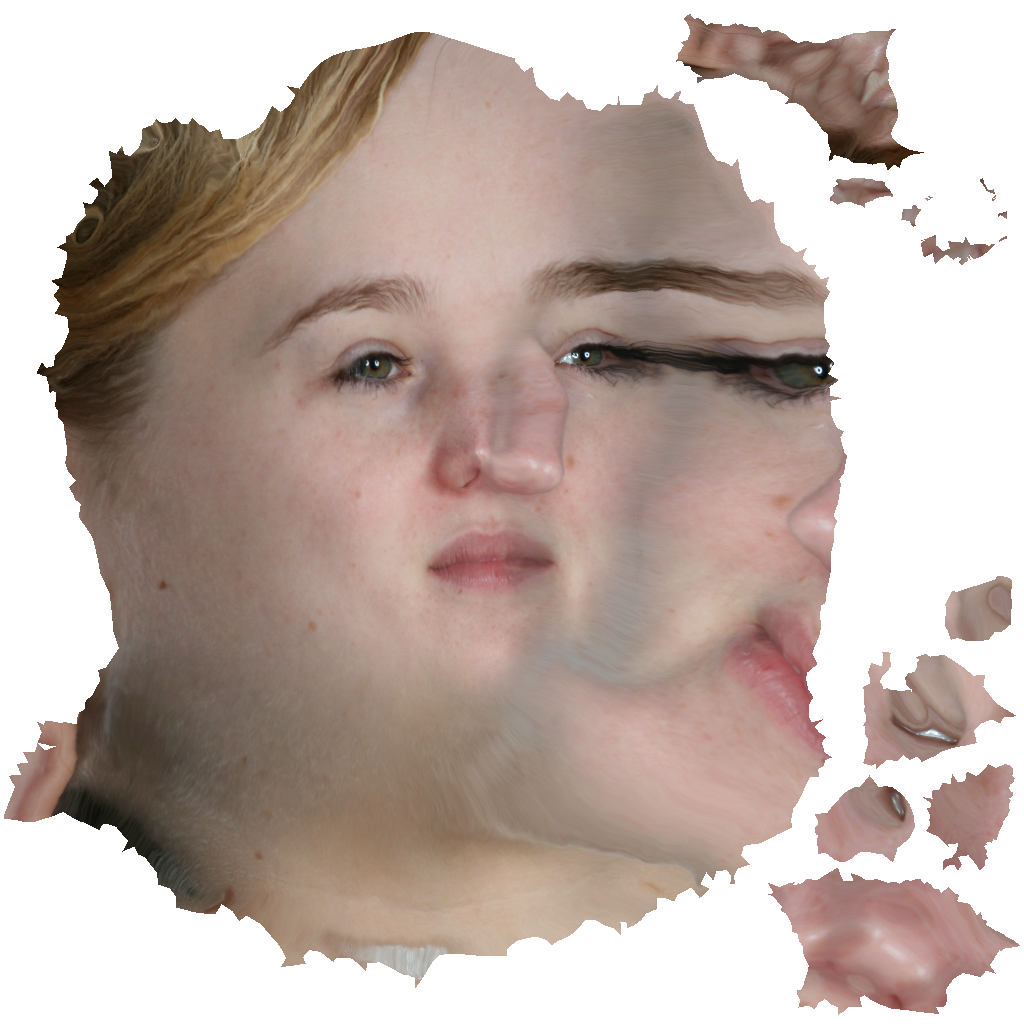
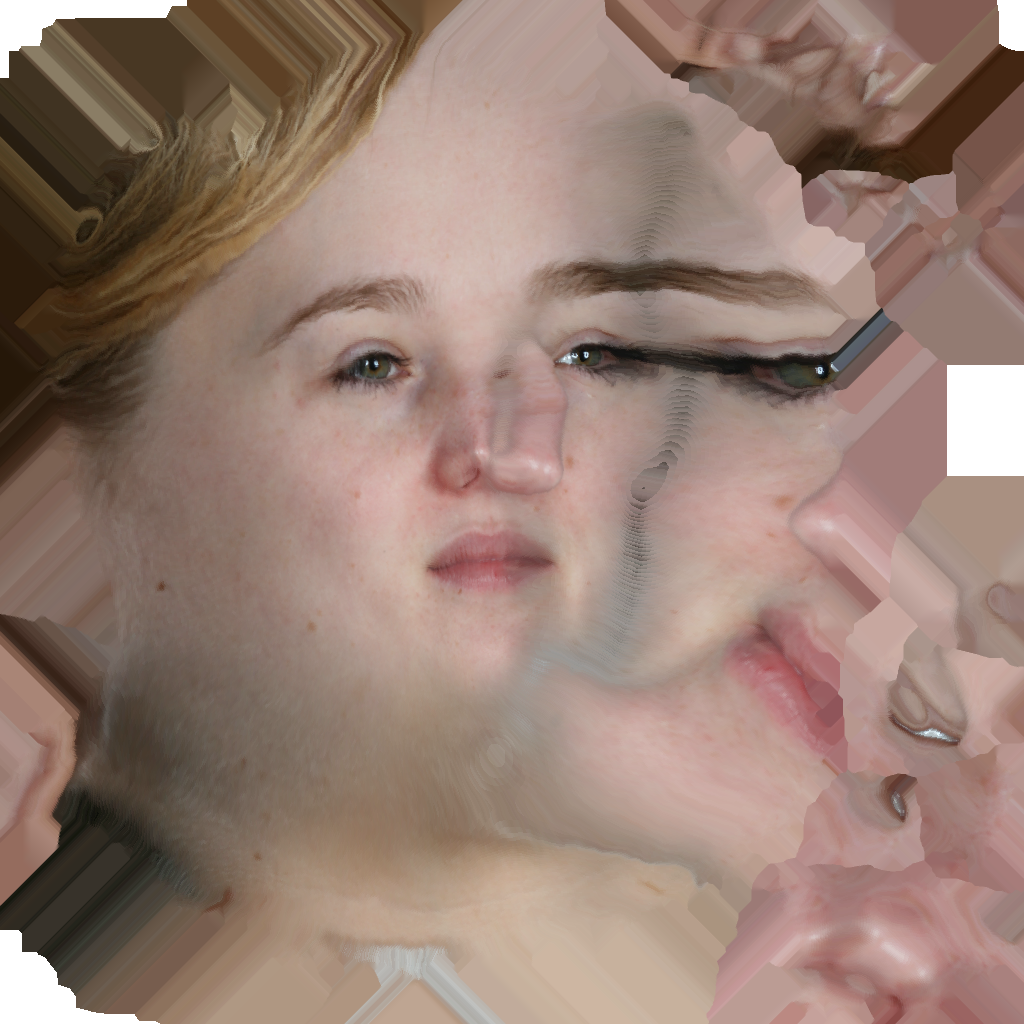
reduced the size of the sample images and added the property resolution to the camera
git-svn-id: svn://svn.code.sf.net/p/meshlab/code/trunk@2340 324bb2ba-784c-0410-a299-e66b5c357fcb

diff --git a/meshlab/src/meshlabplugins/edit_phototexturing/src/Camera.cpp b/meshlab/src/meshlabplugins/edit_phototexturing/src/Camera.cpp
@@ -5,6 +5,9 @@
 const QString Camera::XML_CAMERA = "camera";
 const QString Camera::XML_NAME = "name";
 const QString Camera::XML_IMAGE = "textureImage";
+const QString Camera::XML_RESOLUTION_X = "resolutionX";
+const QString Camera::XML_RESOLUTION_Y = "resolutionY";
+
 
 Camera::Camera(){
 	
@@ -28,6 +31,8 @@ void Camera::saveAsXml(QDomDocument* doc,QDomElement *root){
 	QDomElement xml_cam = doc->createElement(XML_CAMERA);
 	xml_cam.setAttribute(XML_NAME,name);
 	xml_cam.setAttribute(XML_IMAGE,textureImage);
+	xml_cam.setAttribute(XML_RESOLUTION_X,resolution[0]);
+	xml_cam.setAttribute(XML_RESOLUTION_Y,resolution[1]);
 	
 	calibration->saveAsXml(doc,&xml_cam);
 	
@@ -39,6 +44,8 @@ void Camera::loadFromXml(QDomElement *xml_cam){
 	
 	name = xml_cam->attribute(XML_NAME);
 	textureImage  = xml_cam->attribute(XML_IMAGE);
+	resolution[0] = xml_cam->attribute(XML_RESOLUTION_X).toInt();
+	resolution[1] = xml_cam->attribute(XML_RESOLUTION_Y).toInt();
 	
 	QDomElement xml_calib = xml_cam->firstChildElement(CameraCalibration::XML_CALIBRATION);
 	if (!xml_calib.isNull()){

diff --git a/meshlab/src/meshlabplugins/edit_phototexturing/src/Camera.h b/meshlab/src/meshlabplugins/edit_phototexturing/src/Camera.h
@@ -19,6 +19,9 @@ public:
 	static const QString XML_CAMERA;
 	static const QString XML_NAME;
 	static const QString XML_IMAGE;
+	static const QString XML_RESOLUTION_X;
+	static const QString XML_RESOLUTION_Y;
+	
 	
 	bool calculatedTextures;
 	QString name;
@@ -26,6 +29,7 @@ public:
 	QString textureImage;
 	CameraSensor sensor;
 	CameraCalibration *calibration;
+	int resolution[2];
 	
 	Camera();
 	~Camera();

diff --git a/meshlab/src/meshlabplugins/edit_phototexturing/src/PhotoTexturer.cpp b/meshlab/src/meshlabplugins/edit_phototexturing/src/PhotoTexturer.cpp
@@ -240,8 +240,8 @@ void PhotoTexturer::calculateMeshTextureForCamera(Camera* cam,MeshModel *m){
 			double u,v;
 			cam->calibration->getUVforPoint((*fi).V(i)->P()[0],(*fi).V(i)->P()[1],(*fi).V(i)->P()[2],&u,&v);
 
-			ft->u[i] = u/imgw;
-			ft->v[i] = 1.0-v/imgh;	
+			ft->u[i] = u/cam->resolution[0];
+			ft->v[i] = 1.0-v/cam->resolution[1];	
 		}
 		ft->textureindex =tindx;
 		ft->faceIndex = count;
